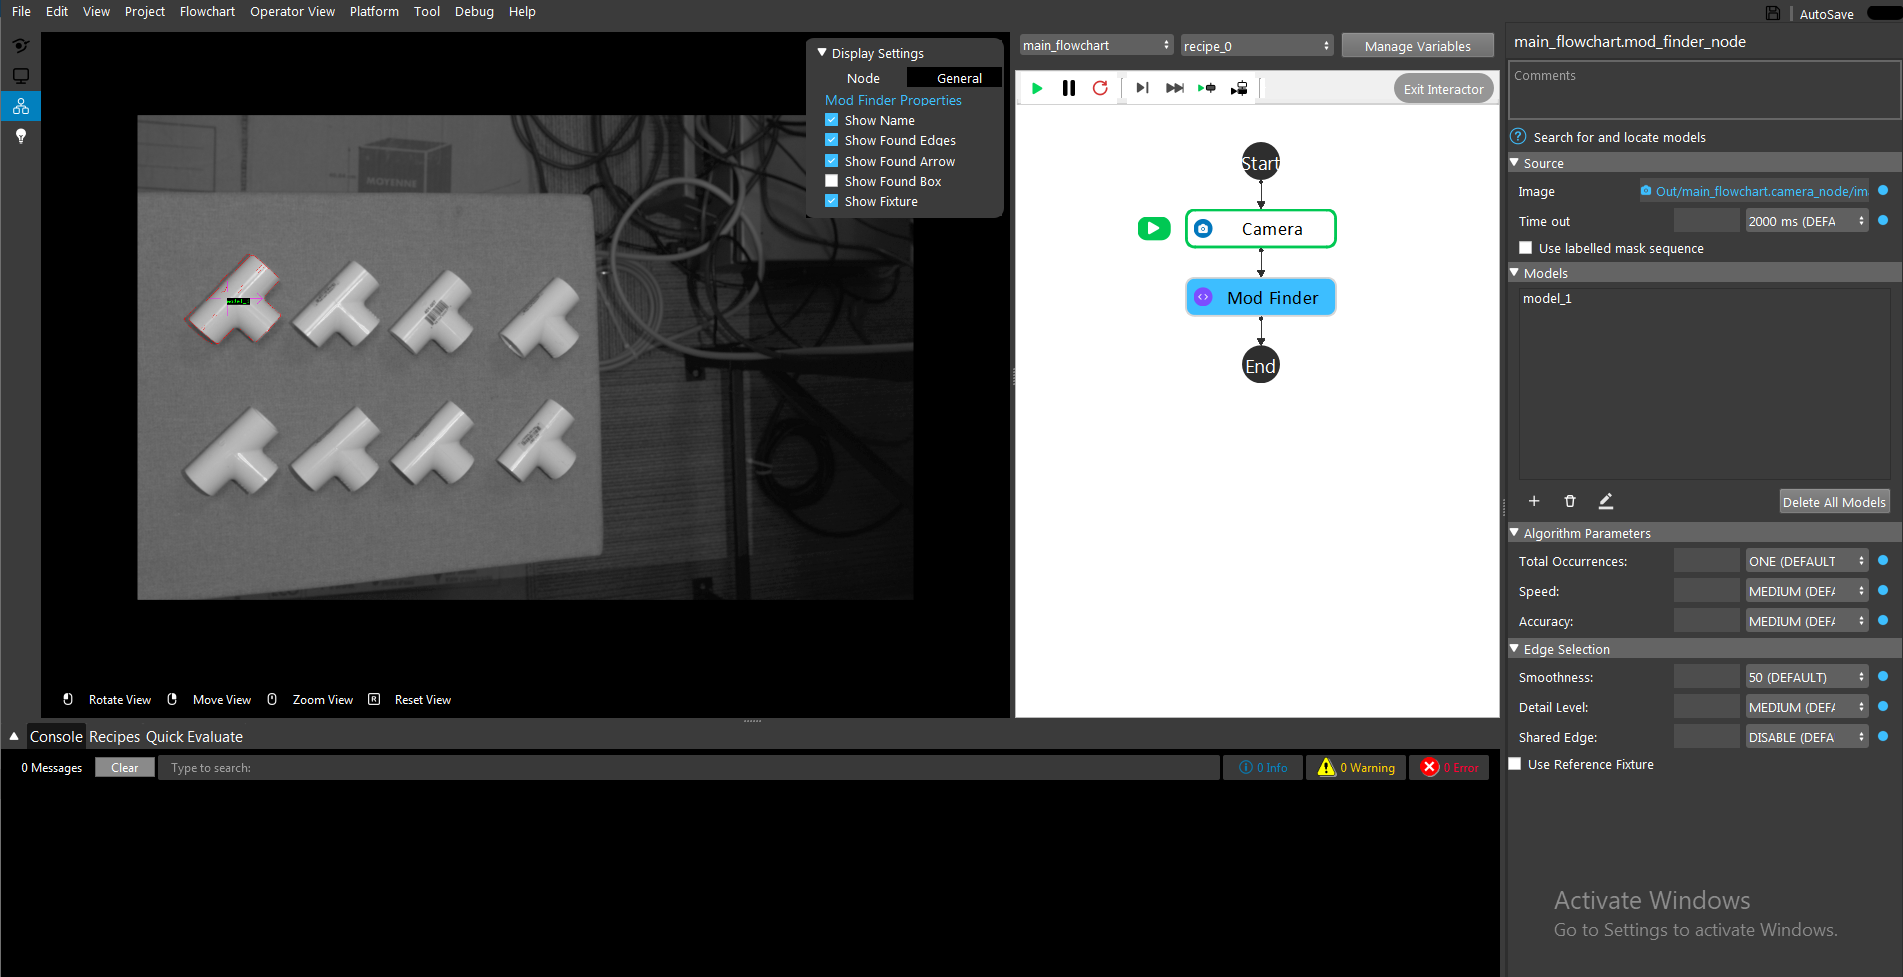
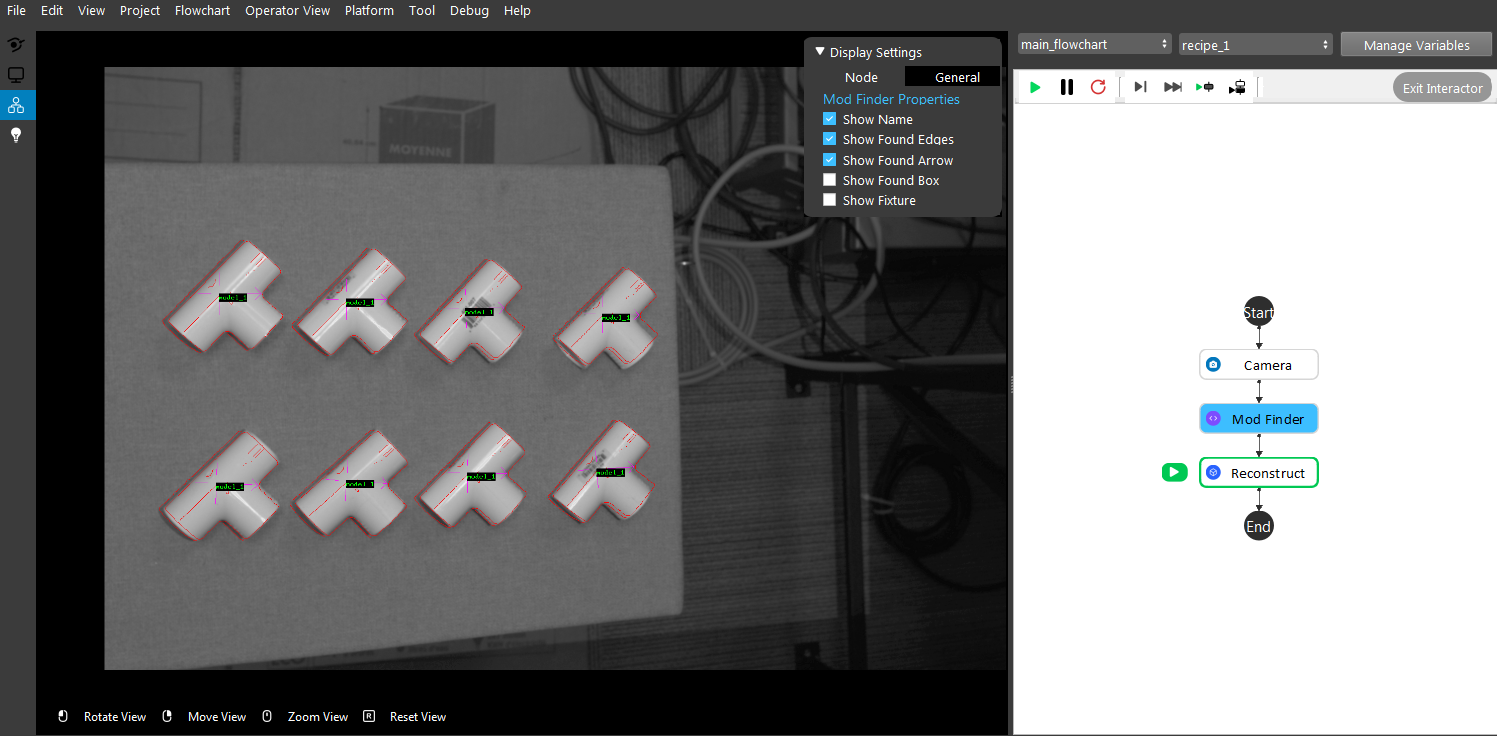
quick evaluate finished

diff --git a/docs/nodes/Data Control/Quick Evaluate.rst b/docs/nodes/Data Control/Quick Evaluate.rst
@@ -13,18 +13,52 @@ As the flowchart runs, the expressions will be continuously evaluated and refres
 Usage Example
 =============
 
-View the detail of a found model from the Mod Finder node.
+View the detail pose of a found object in the Reconstruct node.
 
-The flowchart has a Camera node to input image and a Mod Finder node to find a tee pipe.
+The flowchart has a Camera node to input image and a Mod Finder node to find tee.
  
  .. image:: images/quick_1.png
-	:scale: 35%	
+	:scale: 50%	
 	:align: center
 
-Open quick evaluate section
+Pass the result to Reconstruct node to get 3D poses.
 
  .. image:: images/quick_2.png
-	:scale: 45%	
+	:scale: 50%	
 	:align: center
 
+Click the "Quick Evaluate" to open the section and click the triangle on the left of the reconstruct.
 
+ .. image:: images/quick_3.png
+	:scale: 50%	
+	:align: center
+
+Expand the "objectPositions", then select the "occurrence[]". The expression represents the object position of the selected object.
+
+ .. image:: images/quick_4.png
+	:scale: 50%	
+	:align: center
+
+Click the Pose under the "Evaluated Value". There is no pose in the "Evaluated Result" because the index of occurrence is empty. The software does not know which pose to return.
+
+ .. image:: images/quick_5.png
+	:scale: 50%	
+	:align: center
+
+If the target object is the tee on the top left, its index is 0. Enter 0 in the bracket of the occurrence under the "Expression" section.
+
+ .. image:: images/quick_6.png
+	:scale: 50%	
+	:align: center
+
+Click on the "Re-Evaluate" to run the modified expression. "View More" to see the result.
+
+ .. image:: images/quick_7.png
+	:scale: 50%	
+	:align: center
+
+The pose is shown in the "Evaluated Result" window.
+
+ .. image:: images/quick_8.png
+	:scale: 50%	
+	:align: center
